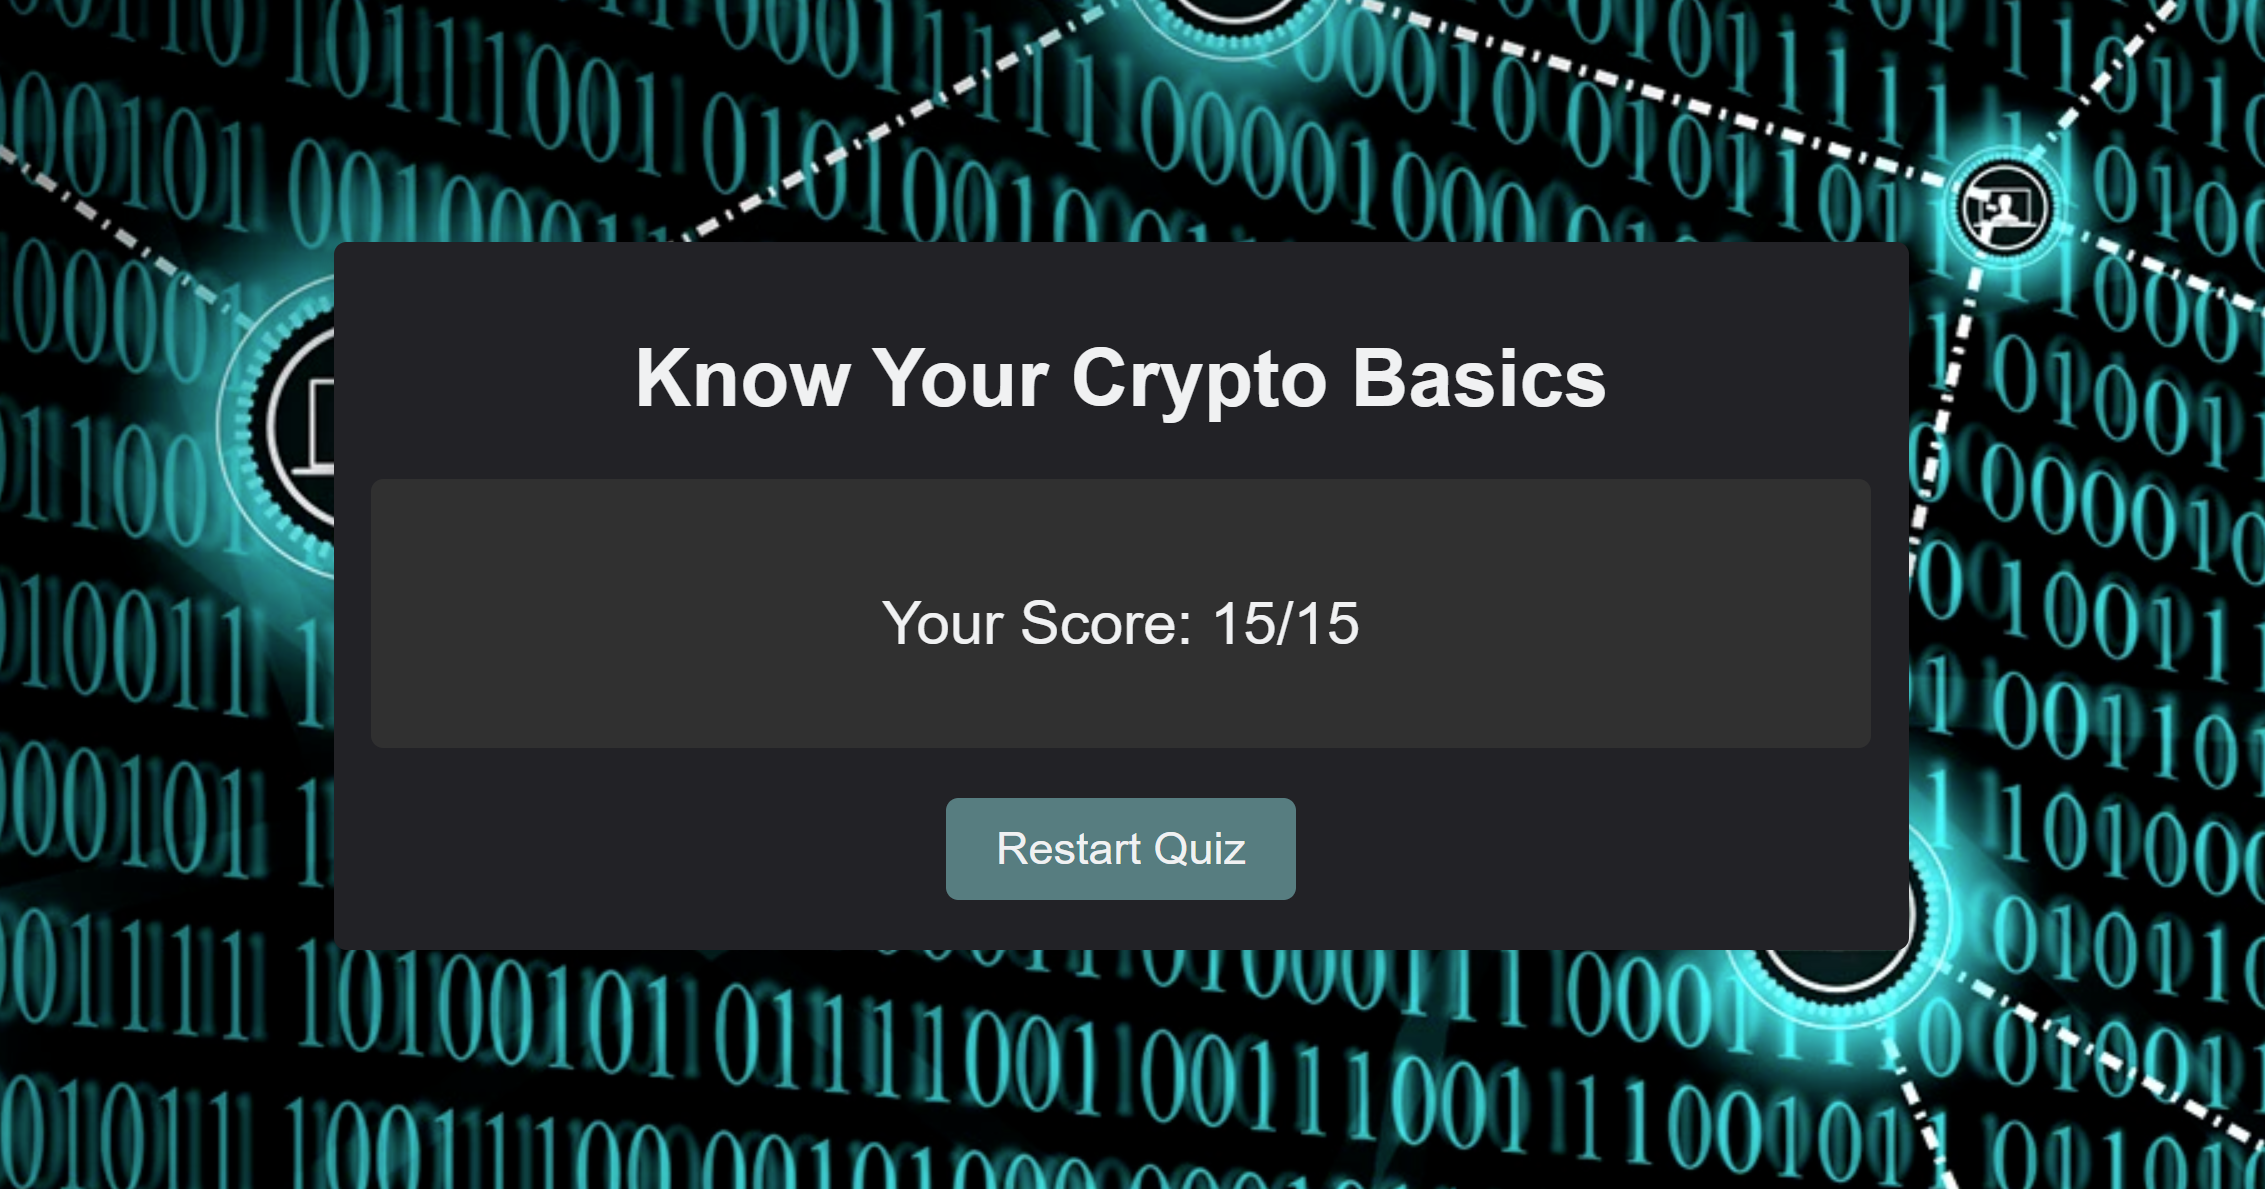
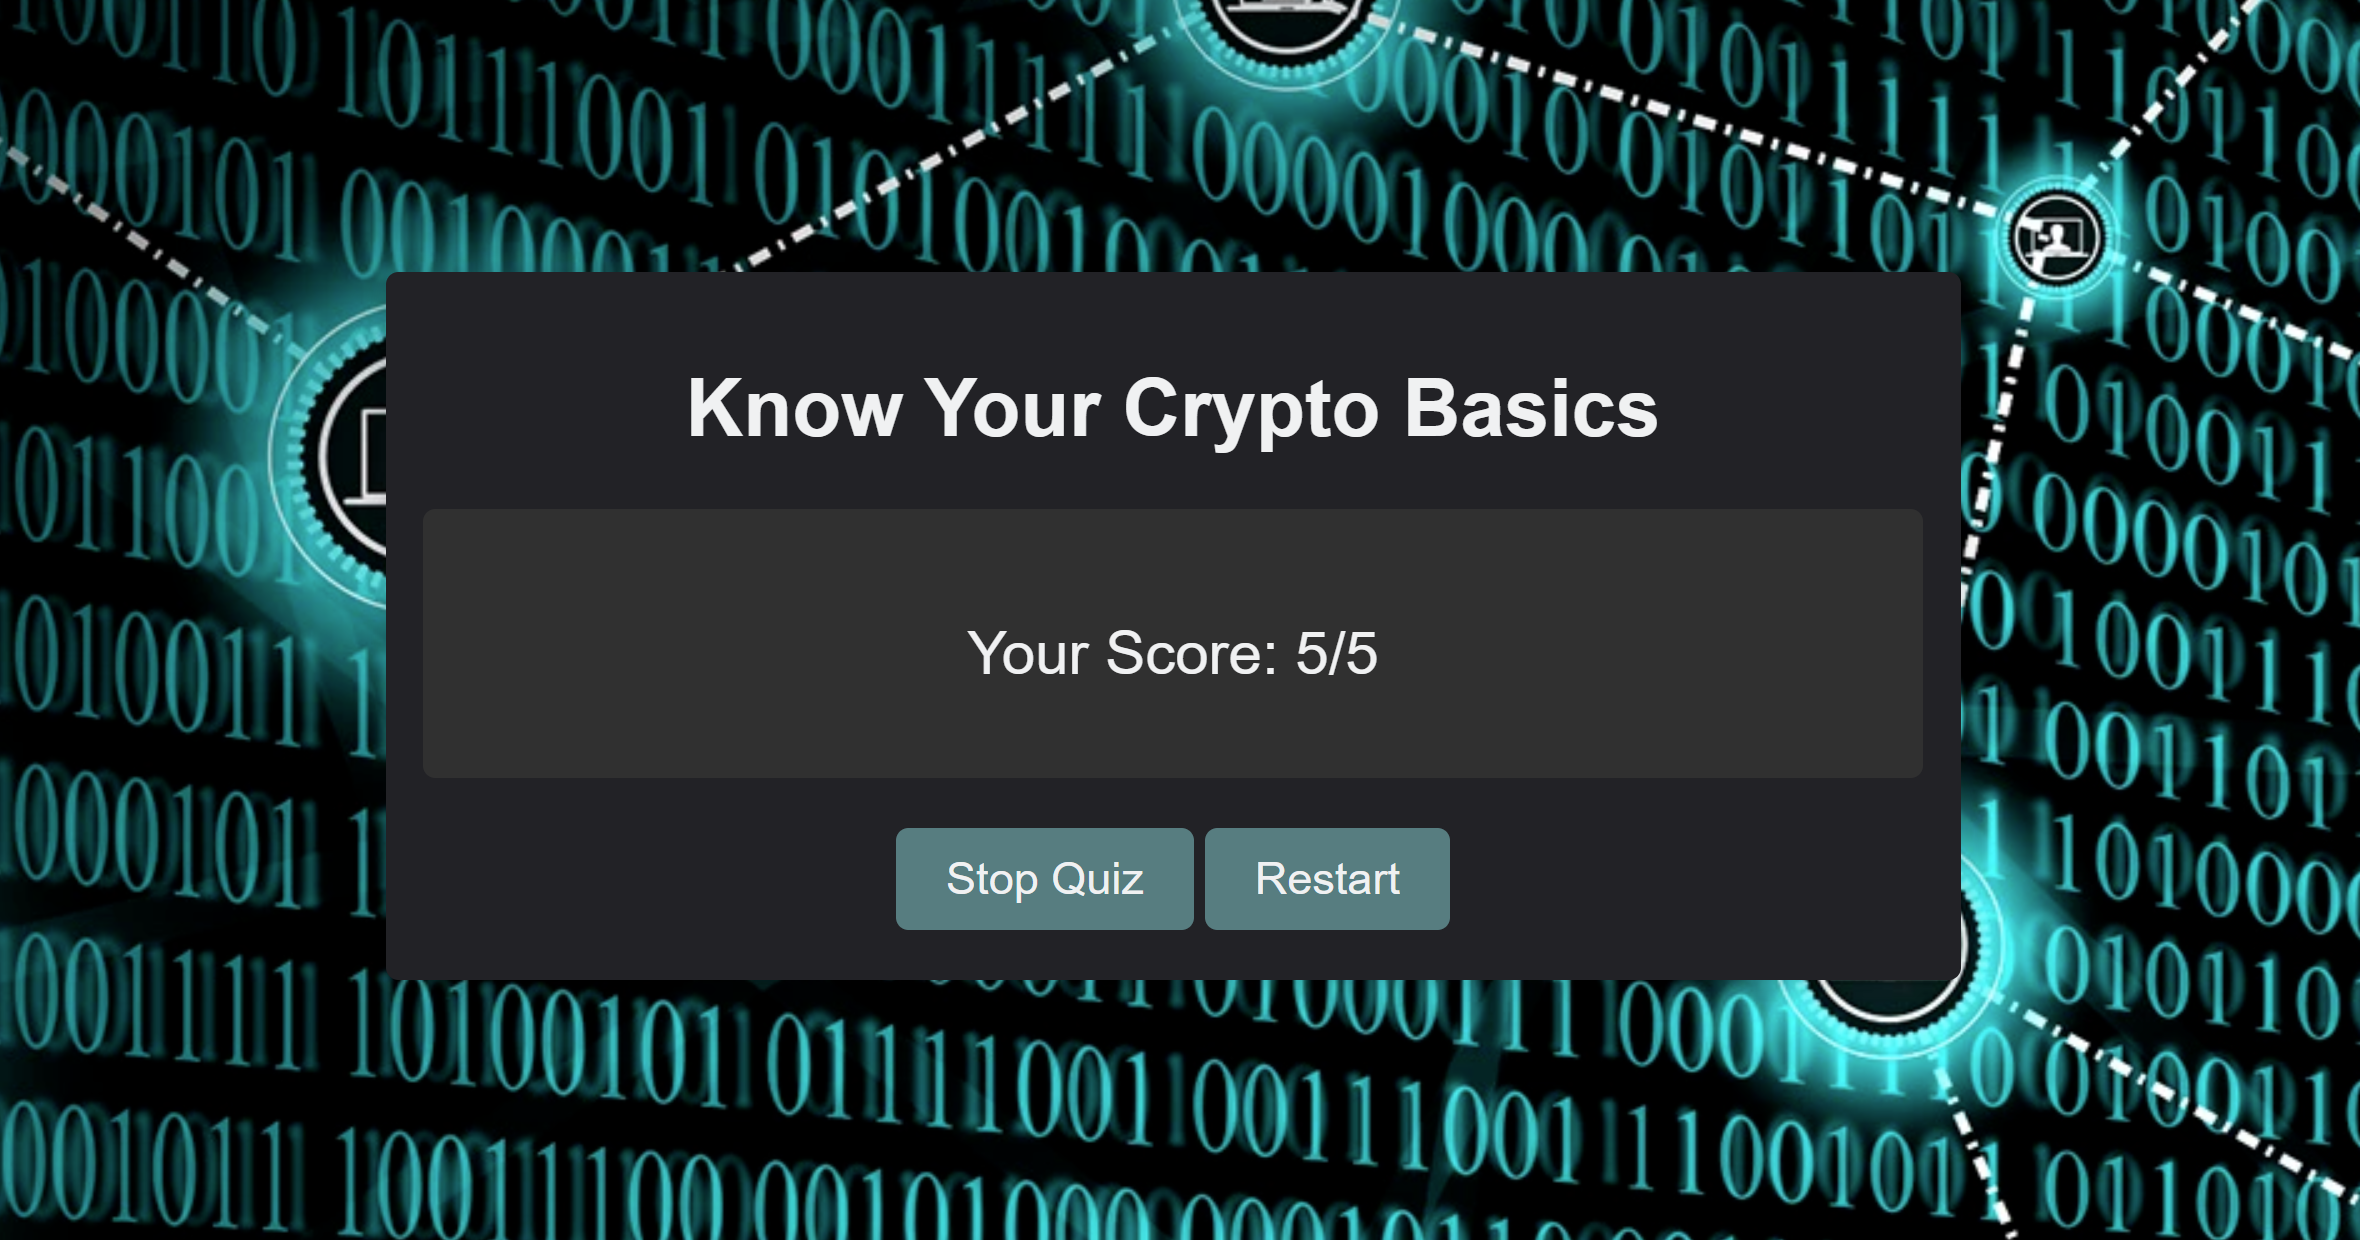
Update readme file assets

diff --git a/README.md b/README.md
@@ -68,7 +68,7 @@ The application should initially be a simple design with enough interactivity to
 ### Scope
 The project scope follows the minimal viable features approach for the initial project. However the scope is such that interactive features to enhance the user experience can be added in future. 
 
-The project is to be a simple functioning online quiz game with randomly generated multiple choice questions. The score will accumulate up to a specified maximum which can be adjusted according to the number of questions available. Initially this will be set to 15 as the test pool of questions is relatively small but sufficient for the user to enjoy the experience. 
+The project is to be a simple functioning online quiz game with randomly generated multiple choice questions. The score will accumulate up to a specified maximum which can be adjusted by the developer. Initially this will be set to 5 to provide sufficient variety of questions out of the pool of 15 questions. 
 
 The purpose of the site will be clear from the landing page and will be visually attractive to the user. The site will be easy to navigate and fully responsive to all sized screens.
 
@@ -107,14 +107,17 @@ I have selected to go with a modern crypto inspired color scheme.
 
 * **Question Screen**
   * Displays a shuffled question.
-  * Displays four answer options
+  * Displays four answer options.
   * Highlights chosen answer if wrong in red and if right in green.
+  * Displays a "Next" button to move to the next question after choosing an answer.
+  * Displays a "Stop Quiz" button to end quiz and move to welcome screen.
 
 ![Question Screen](https://github.com/equaynor/know-your-crypto-basics/blob/main/assets/readme-assets/questions-section-desktop.png)
 
 * **Final Score Screen**
   * Displays users final score.
   * Displays a button to restart the quiz.
+  * Displays a "Stop Quiz" button to end quiz and move to welcome screen.
 
 ![Score Screen](https://github.com/equaynor/know-your-crypto-basics/blob/main/assets/readme-assets/score-section-desktop.png)
 
